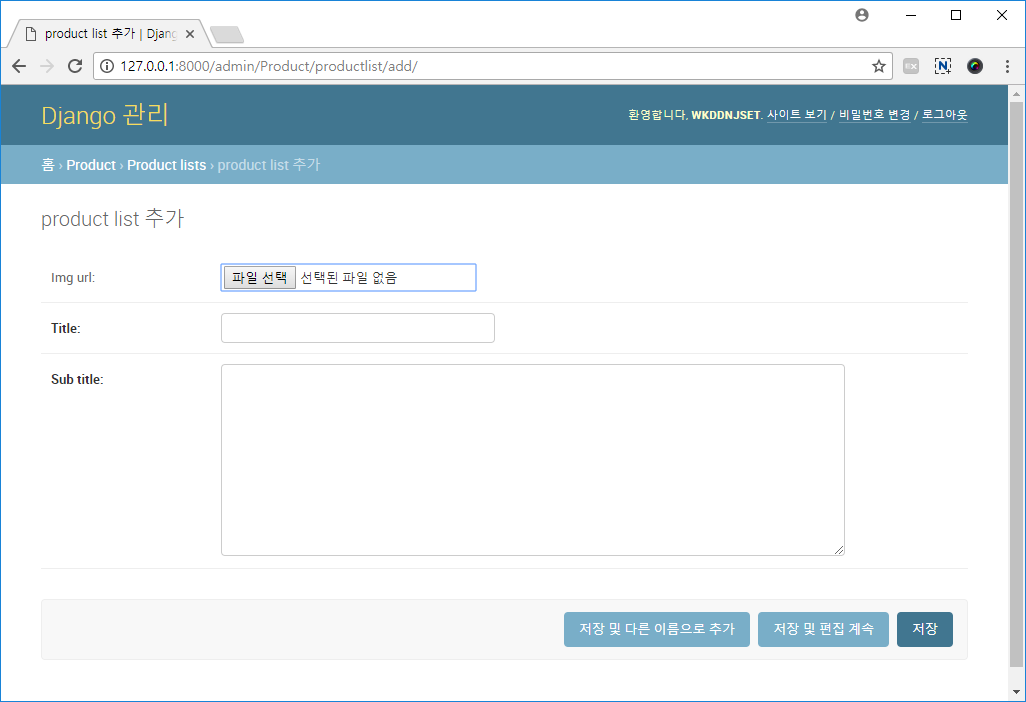
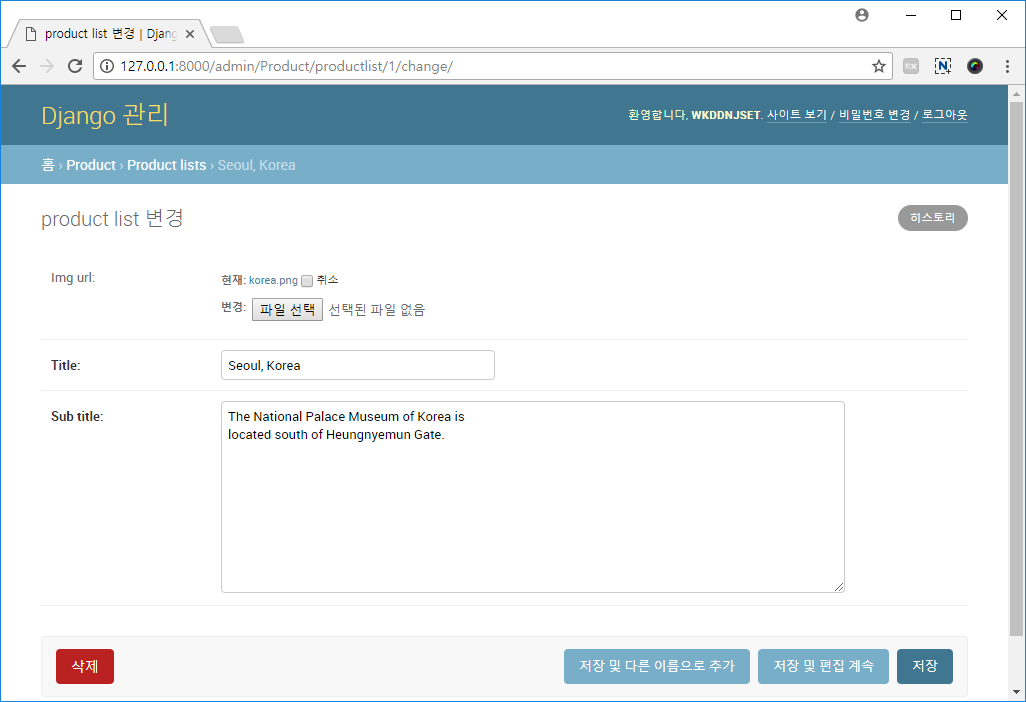
2018-02-12

diff --git a/_posts/2018-02-12-Django-앱-개발-(Django-모델설계)-[여행플랜].md b/_posts/2018-02-12-Django-앱-개발-(Django-모델설계)-[여행플랜].md
@@ -127,8 +127,30 @@ admin.site.register(ProductList, ProductListAdmin)
 C:\Users\wk647\Desktop\Tourplan_Django\src> python manage.py runserver
 {% endhighlight %}
 
+**Django**를 로컬서버로 실행시킵니다.
+
 ![admin-page-01](https://raw.githubusercontent.com/wkddnjset/wkddnjset.github.io/master/_posts/images/2018-02-12/admin_page_01.png)
 
-관지라 페이지에 로그인하게 되면, **Product lists**를 통해 아래 그림과 같이 이미지 파일을 추가할 수 있는 페이지를 볼 수 있습니다. 
+**관지라 페이지**에 로그인하게 되면, **Product lists**를 통해 아래 그림과 같이 **이미지 파일**을 추가할 수 있는 페이지를 볼 수 있습니다. 
 
 ![admin-page-02](https://raw.githubusercontent.com/wkddnjset/wkddnjset.github.io/master/_posts/images/2018-02-12/admin_page_02.png)
+
+이미지를 추가해봅시다!
+
+### Tourplan/urls.py
+
+{% highlight python linenos %}
+from django.conf import settings
+from django.conf.urls.static import static
+
+urlpatterns += static(settings.MEDIA_URL, document_root=settings.MEDIA_ROOT)
+{% endhighlight %}
+
+Project 폴더에 urls.py에 이미지 경로를 추가합니다.
+
+![image-page-02](https://raw.githubusercontent.com/wkddnjset/wkddnjset.github.io/master/_posts/images/2018-02-12/image_page_01.png)
+
+이미지를 관리자페이지에서 등록 후 아래와 같은 URL로 들어가면 해당 이미지를 불러올 수 있습니다.
+
+> **http://localhost/media/[이미지파일명]**
+
